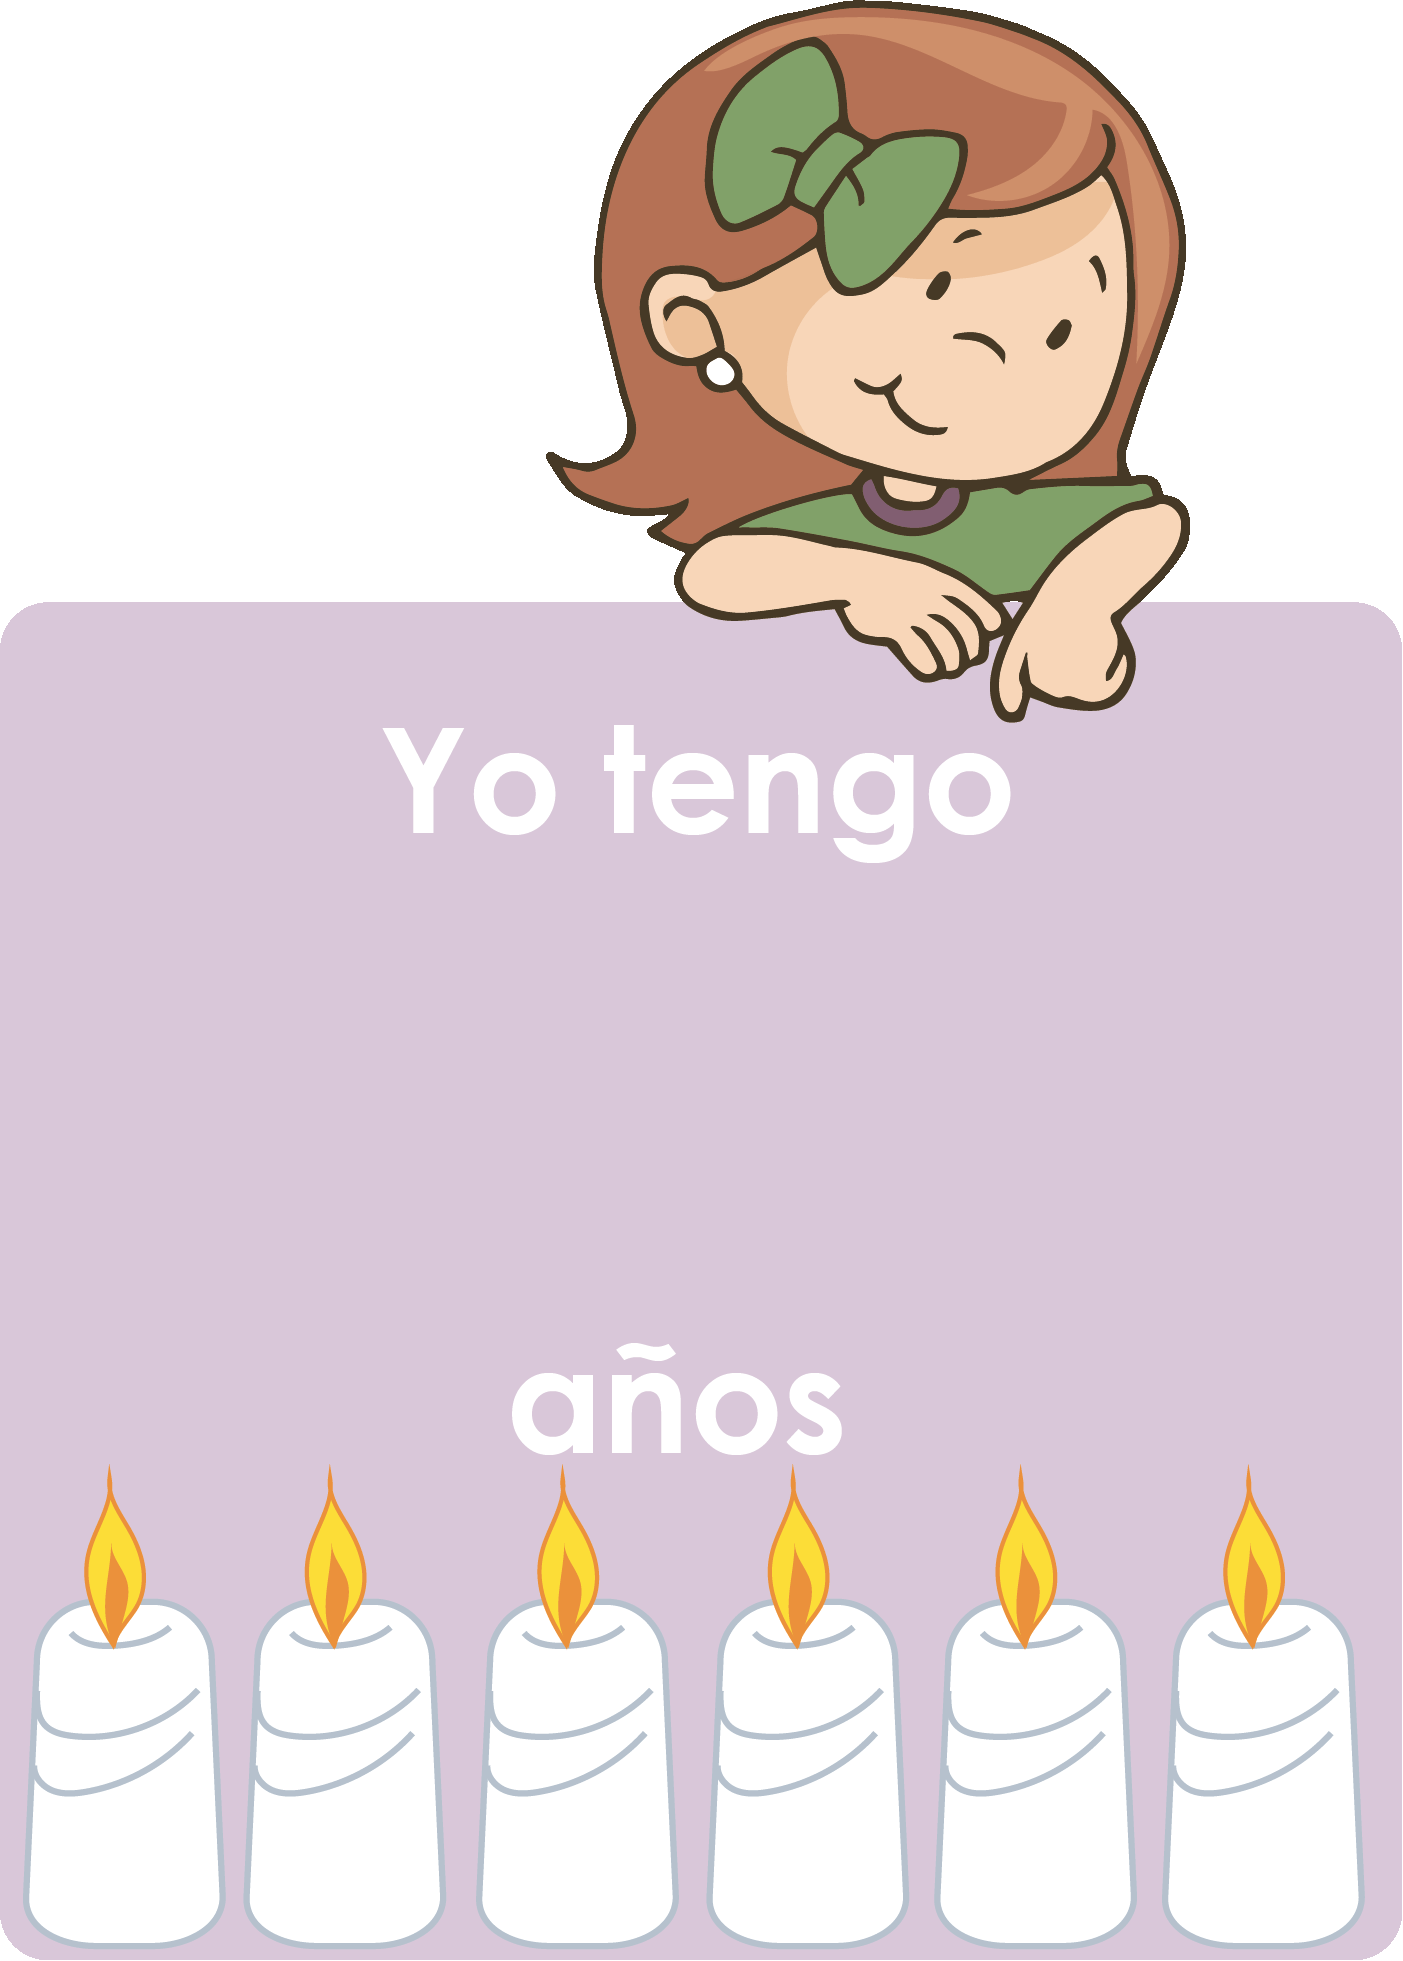
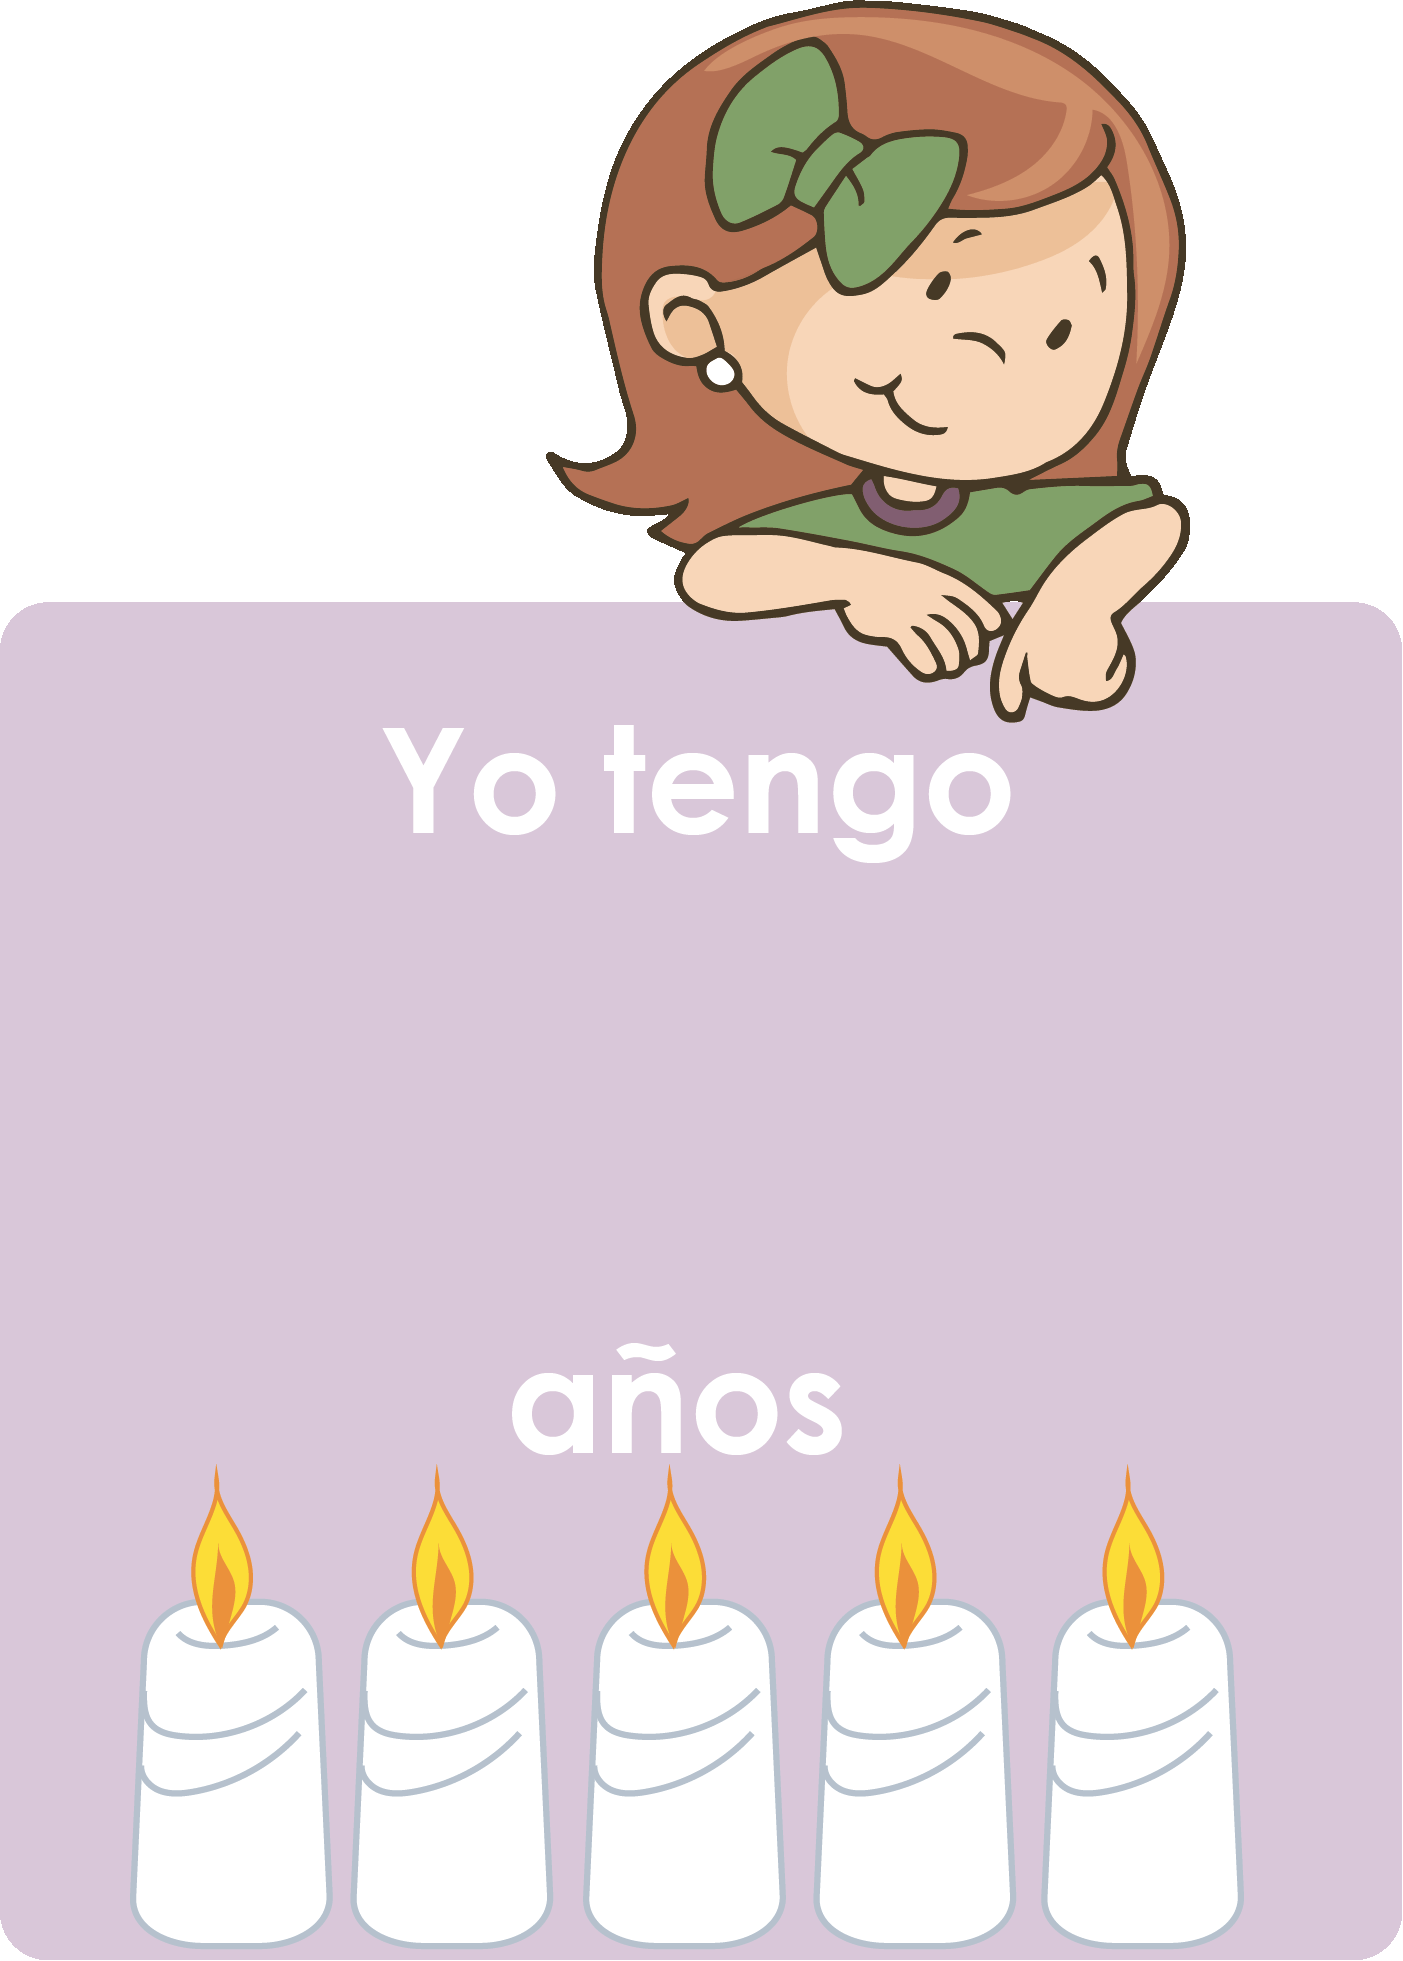
Corrección ODA ASMA3T1-19

Changed region(s): [[0.0, 0.7466, 0.9808, 0.9954]]

diff --git a/basicas/ASMA3T1/19/index.html b/basicas/ASMA3T1/19/index.html
@@ -1,1 +1,1 @@
-<html><head><meta charset="UTF-8"><meta name="viewport" content="width=device-width, initial-scale=1.0"><title>¿Cuántos años tienes?</title></head><body><div class="container mx-auto my-5" id="app"><oda-titulo title="¿Cuántos años tienes?" subtitle=""></oda-titulo><div><oda-instruccion class="">¿Cuántos años tienes? Ingresa tu edad en el campo correspondiente.</oda-instruccion><layout-grid columns="2" columns-md="2" gap="2" class=" p-2 relative"><layout-img img="img/01.png" class=""></layout-img><layout-img img="img/02.png" class=""></layout-img><div class=" is-overlapping-item absolute w-[24%] h-[7%] left-[13%] top-[48%]"><module-input v-bind:allok="true" answer="" placeholder="" class=" w-full h-full"></module-input></div><div class=" is-overlapping-item absolute w-[24%] h-[7%] left-[62%] top-[48%]"><module-input v-bind:allok="true" answer="" placeholder="" class=" w-full h-full"></module-input></div></layout-grid><layout-img img="img/1.png" class=" p-5"></layout-img></div><oda-finalizar></oda-finalizar></div><script src="https://cdn.jsdelivr.net/gh/bluemx/blueodasv2@v1.0.20/basicas/assets/loader.min.js" data-loader-version="v1.0.20" type="text/javascript"></script></body></html>
+<html><head><meta charset="UTF-8"><meta name="viewport" content="width=device-width, initial-scale=1.0"><title>¿Cuántos años tienes?</title></head><body><div class="container mx-auto my-5" id="app"><oda-titulo title="¿Cuántos años tienes?" subtitle=""></oda-titulo><div><oda-instruccion class="">¿Cuántos años tiene cada personaje? Cuenta las velas e ingresa el número en el campo correspondiente.</oda-instruccion><layout-grid columns="2" columns-md="2" gap="2" class=" p-2 relative"><layout-img img="img/01.png" class="" v-bind:img-variable="null"></layout-img><layout-img img="img/02.png" class="" v-bind:img-variable="null"></layout-img><div class=" is-overlapping-item absolute w-[24%] h-[7%] left-[13%] top-[48%]"><module-input v-bind:allok="false" answer="5" placeholder="#" class=" w-full h-full"></module-input></div><div class=" is-overlapping-item absolute w-[24%] h-[7%] left-[62%] top-[48%]"><module-input v-bind:allok="false" answer="4" placeholder="#" class=" w-full h-full"></module-input></div></layout-grid><layout-img img="img/1.png" class=" p-5" v-bind:img-variable="null"></layout-img></div><oda-finalizar></oda-finalizar></div><script src="https://cdn.jsdelivr.net/gh/bluemx/blueodasv2@v1.0.24/basicas/assets/loader.min.js" data-loader-version="v1.0.24" type="text/javascript"></script></body></html>
